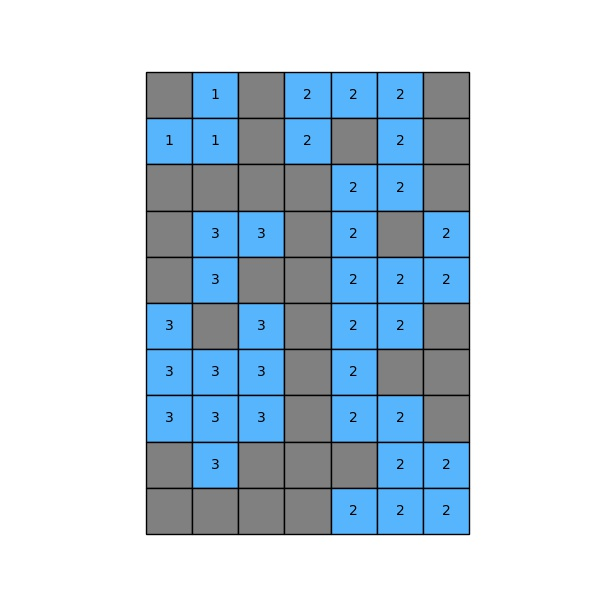
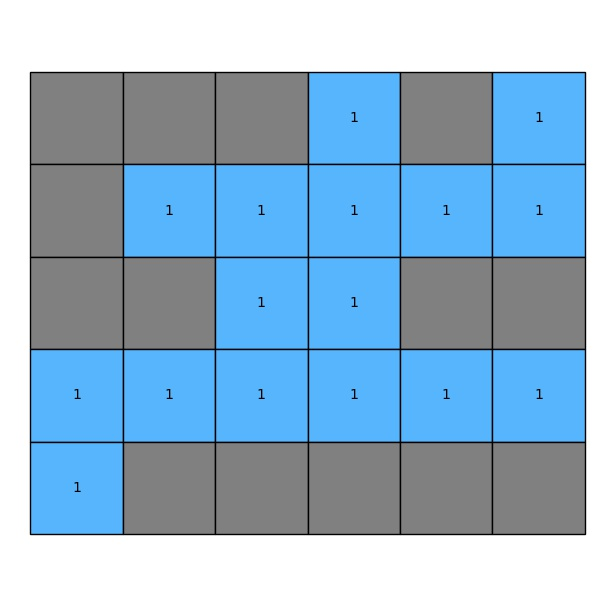
Add the user input

diff --git a/count_of_lake.py b/count_of_lake.py
@@ -2,6 +2,7 @@ import numpy as np
 import matplotlib.pyplot as plt
 from matplotlib.table import Table
 
+
 class Graph:
 
     def __init__(self, row, col, g):
@@ -10,7 +11,7 @@ class Graph:
         self.graph = g
 
     # A function to check if a given cell (row, col) can be included in DFS
-    def isSafe(self, i, j, visited):
+    def isVisited(self, i, j, visited):
         # row number is in range, column number is in range and value is 1 and not yet visited
         safe = False
         if (i >= 0 and i < self.ROW and j >= 0 and j < self.COL and not visited[i][j] and self.graph[i][j] == 0):
@@ -27,8 +28,8 @@ class Graph:
         output[i][j] = count+1
         # Recur for all connected neighbours
         for k in range(8):
-            if self.isSafe(i + rowNbr[k], j + colNbr[k], visited):
-                self.DFS(i + rowNbr[k], j + colNbr[k], visited,output, count)
+            if self.isVisited(i + rowNbr[k], j + colNbr[k], visited):
+                self.DFS(i + rowNbr[k], j + colNbr[k], visited, output, count)
     # The main function that returns count of islands in a given boolean 2D matrix
 
     def countIslands(self):
@@ -47,19 +48,44 @@ class Graph:
         return count, output
 
 
-graph = [[1, 0, 1, 0, 0, 0, 1],
-         [0, 0, 1, 0, 1, 0, 1],
-         [1, 1, 1, 1, 0, 0, 1],
-         [1, 0, 0, 1, 0, 1, 0],
-         [1, 0, 1, 1, 0, 0, 0],
-         [0, 1, 0, 1, 0, 0, 1],
-         [0, 0, 0, 1, 0, 1, 1],
-         [0, 0, 0, 1, 0, 0, 1],
-         [1, 0, 1, 1, 1, 0, 0],
-         [1, 1, 1, 1, 0, 0, 0]]
-         
-row = len(graph)
-col = len(graph[0])
+# graph = [[1, 0, 1, 0, 0, 0, 1],
+#          [0, 0, 1, 0, 1, 0, 1],
+#          [1, 1, 1, 1, 0, 0, 1],
+#          [1, 0, 0, 1, 0, 1, 0],
+#          [1, 0, 1, 1, 0, 0, 0],
+#          [0, 1, 0, 1, 0, 0, 1],
+#          [0, 0, 0, 1, 0, 1, 1],
+#          [0, 0, 0, 1, 0, 0, 1],
+#          [1, 0, 1, 1, 1, 0, 0],
+#          [1, 1, 1, 1, 0, 0, 0]]
+R = int(input("Enter the number of rows:"))
+C = int(input("Enter the number of columns:"))
+
+# Initialize matrix
+graph = []
+print("Enter the entries rowwise:")
+
+# For user input
+for i in range(R):          # A for loop for row entries
+    print("You are entering Row: "+str(i+1))
+    a = []
+    for j in range(C):      # A for loop for column entries
+        cell = int(input())
+        while(cell != 1 and cell != 0):
+            cell = int(input("Invalid Input, Re-enter please"))
+        a.append(cell)
+    graph.append(a)
+
+# For printing the matrix
+for i in range(R):
+    for j in range(C):
+        print(graph[i][j], end=" ")
+    print()
+
+# row = len(graph)
+# col = len(graph[0])
+row = R
+col = C
 
 g = Graph(row, col, graph)
 
@@ -70,20 +96,20 @@ print(output_as_array)
 print("Number of Lake is:")
 print(count)
 
-fig,ax=plt.subplots(figsize=(6,6))
+fig, ax = plt.subplots(figsize=(6, 6))
 tb = Table(ax)
-nrows, ncols = len(output_as_array),len(output_as_array)
-width, height = 1.0 / ncols, 1.0 / nrows   
-for (i,j),val in np.ndenumerate(output_as_array):
+nrows, ncols = len(output_as_array), len(output_as_array)
+width, height = 1.0 / ncols, 1.0 / nrows
+for (i, j), val in np.ndenumerate(output_as_array):
     tb.add_cell(i, j, width, height)
     tb.add_cell(i, j, width, height, loc='center')
 for i in range(row):
     for j in range(col):
-        if(output[i][j]!=0):
-            tb[(i,j)].set_facecolor("#56b5fd")
-            tb[(i,j)].set_text_props(text=output[i][j])
+        if(output[i][j] != 0):
+            tb[(i, j)].set_facecolor("#56b5fd")
+            tb[(i, j)].set_text_props(text=output[i][j])
         else:
-            tb[(i,j)].set_facecolor("grey")       
+            tb[(i, j)].set_facecolor("grey")
 ax.add_table(tb)
 ax.set_aspect('equal')
 plt.axis("off")
